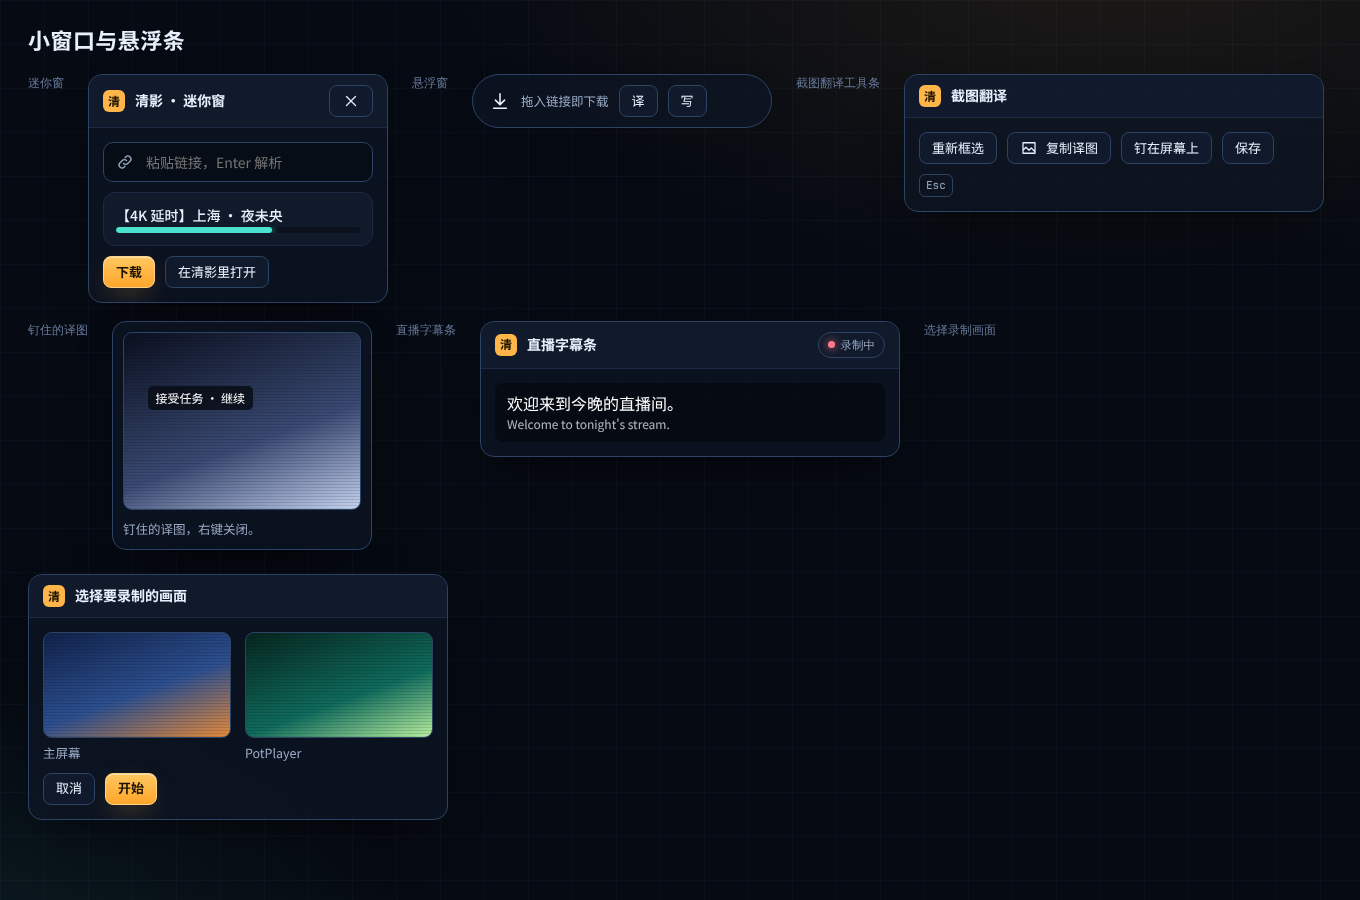
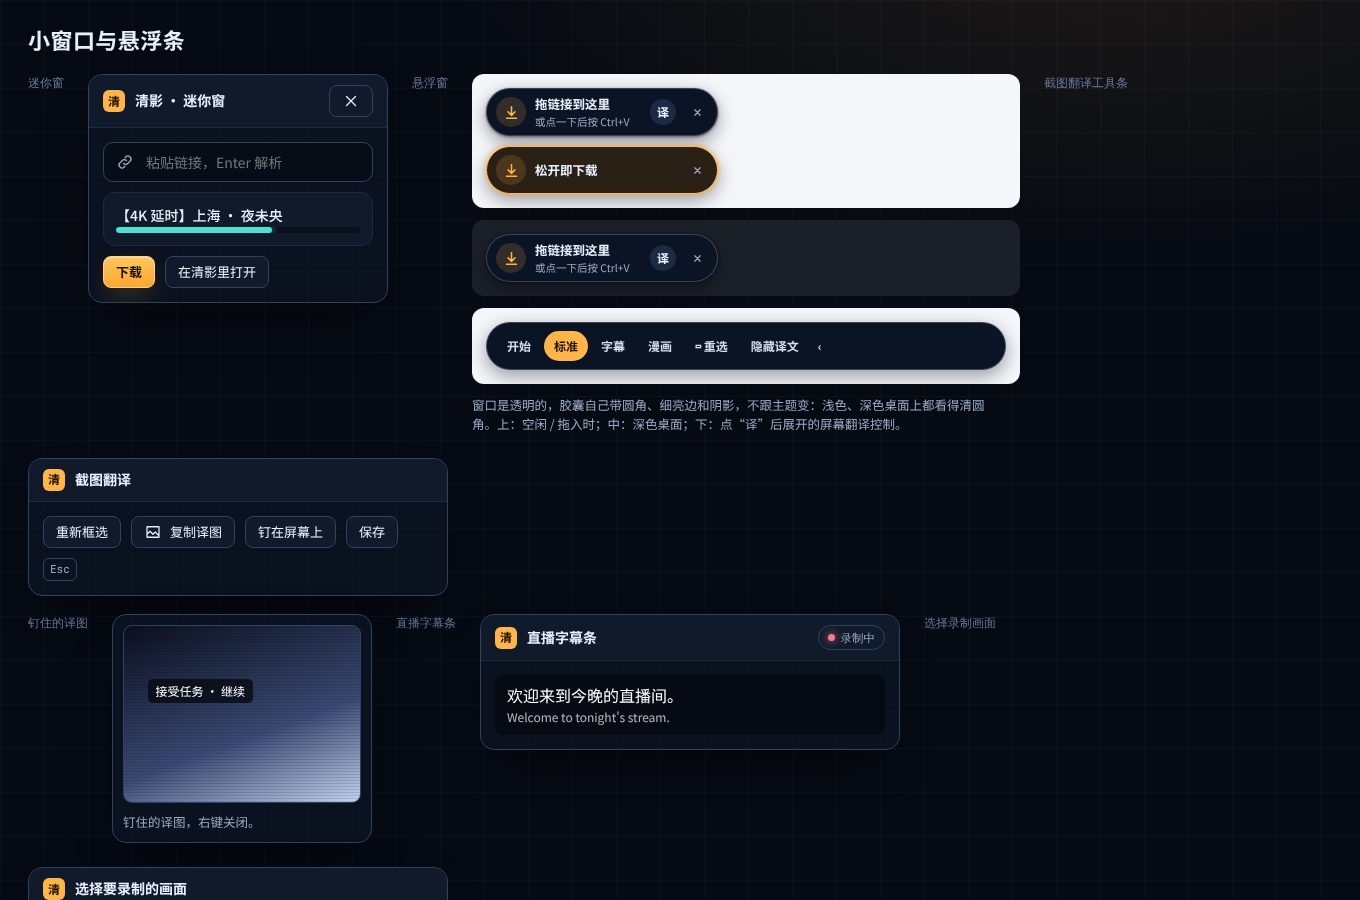
fix(ui): 清影写作窗在浅色桌面上边缘看不清；设计稿补悬浮窗新样子
Claude-Session: https://claude.ai/code/session_01E1QXUbSGXroFMGTAbRgxPD

diff --git a/docs/design/source/Small.dc.html b/docs/design/source/Small.dc.html
@@ -19,7 +19,7 @@ body { margin: 0; }
 <div class="cc" data-theme="{{theme}}">
 <div class="plainmain">
 <header class="topbar"><h1>小窗口与悬浮条</h1><span class="spacer"></span></header>
-<div class="frames"><div class="frame-cap">迷你窗</div><div class="win" style="width:300px"><div class="win-h"><span class="logo-s">清</span><b>清影 · 迷你窗</b><span class="spacer"></span><button class="btn sm ghost" ><svg width="18" height="18" viewBox="0 0 24 24" fill="none" stroke="currentColor" stroke-width="1.7" stroke-linecap="round" stroke-linejoin="round" aria-hidden="true"><path d="M6 6l12 12M18 6 6 18"/></svg></button></div><div class="win-b"><label class="field"><svg width="18" height="18" viewBox="0 0 24 24" fill="none" stroke="currentColor" stroke-width="1.7" stroke-linecap="round" stroke-linejoin="round" aria-hidden="true"><path d="M10 14a4 4 0 0 0 5.7 0l3-3a4 4 0 0 0-5.7-5.7l-1 1M14 10a4 4 0 0 0-5.7 0l-3 3a4 4 0 0 0 5.7 5.7l1-1"/></svg><input type="text" value="" placeholder="粘贴链接，Enter 解析" aria-label="链接"></label><div class="item"><div class="grow"><div class="ttl">【4K 延时】上海 · 夜未央</div><div class="prog "><i style="width:64%"></i></div></div></div><div class="toolbar"><button class="btn primary sm" >下载</button><button class="btn sm" >在清影里打开</button></div></div></div><div class="frame-cap">悬浮窗</div><div class="win" style="width:300px;border-radius:999px"><div class="win-b" style="flex-direction:row;align-items:center;padding:10px 16px;gap:10px"><svg width="22" height="22" viewBox="0 0 24 24" fill="none" stroke="currentColor" stroke-width="1.7" stroke-linecap="round" stroke-linejoin="round" aria-hidden="true"><path d="M12 4v11M7 11l5 5 5-5M5 20h14"/></svg><span class="grow note">拖入链接即下载</span><button class="btn sm" >译</button><button class="btn sm" >写</button></div></div><div class="frame-cap">截图翻译工具条</div><div class="win" style="width:420px"><div class="win-h"><span class="logo-s">清</span><b>截图翻译</b><span class="spacer"></span></div><div class="win-b" style="flex-direction:row;align-items:center;flex-wrap:wrap"><button class="btn sm" >重新框选</button><button class="btn sm" ><svg width="18" height="18" viewBox="0 0 24 24" fill="none" stroke="currentColor" stroke-width="1.7" stroke-linecap="round" stroke-linejoin="round" aria-hidden="true"><path d="M4 5h16v14H4zM4 15l4-4 4 4 3-3 5 5"/></svg>复制译图</button><button class="btn sm" >钉在屏幕上</button><button class="btn sm" >保存</button><span class="spacer"></span><span class="kbd">Esc</span></div></div></div><div class="frames"><div class="frame-cap">钉住的译图</div><div class="win" style="width:260px"><div class="win-b" style="padding:10px"><div class="thumb t5" style="aspect-ratio:4/3"><div style="position:absolute;left:10%;top:30%;padding:3px 8px;border-radius:5px;background:rgba(6,10,18,.8);color:#fff;font-size:12px">接受任务 · 继续</div></div><div class="note">钉住的译图，右键关闭。</div></div></div><div class="frame-cap">直播字幕条</div><div class="win" style="width:420px"><div class="win-h"><span class="logo-s">清</span><b>直播字幕条</b><span class="spacer"></span><span class="chip acc"><i class="dot red"></i>录制中</span></div><div class="win-b"><div style="padding:8px 12px;border-radius:8px;background:rgba(6,10,18,.85);color:#fff;font-size:16px">欢迎来到今晚的直播间。<div style="font-size:12px;opacity:.7">Welcome to tonight's stream.</div></div></div></div><div class="frame-cap">选择录制画面</div><div class="win" style="width:420px"><div class="win-h"><span class="logo-s">清</span><b>选择要录制的画面</b><span class="spacer"></span></div><div class="win-b"><div class="g2"><div><div class="thumb t1"></div><div class="note" style="margin-top:6px">主屏幕</div></div><div><div class="thumb t3"></div><div class="note" style="margin-top:6px">PotPlayer</div></div></div><div class="toolbar"><button class="btn sm" >取消</button><button class="btn primary sm" >开始</button></div></div></div></div>
+<div class="frames"><div class="frame-cap">迷你窗</div><div class="win" style="width:300px"><div class="win-h"><span class="logo-s">清</span><b>清影 · 迷你窗</b><span class="spacer"></span><button class="btn sm ghost" ><svg width="18" height="18" viewBox="0 0 24 24" fill="none" stroke="currentColor" stroke-width="1.7" stroke-linecap="round" stroke-linejoin="round" aria-hidden="true"><path d="M6 6l12 12M18 6 6 18"/></svg></button></div><div class="win-b"><label class="field"><svg width="18" height="18" viewBox="0 0 24 24" fill="none" stroke="currentColor" stroke-width="1.7" stroke-linecap="round" stroke-linejoin="round" aria-hidden="true"><path d="M10 14a4 4 0 0 0 5.7 0l3-3a4 4 0 0 0-5.7-5.7l-1 1M14 10a4 4 0 0 0-5.7 0l-3 3a4 4 0 0 0 5.7 5.7l1-1"/></svg><input type="text" value="" placeholder="粘贴链接，Enter 解析" aria-label="链接"></label><div class="item"><div class="grow"><div class="ttl">【4K 延时】上海 · 夜未央</div><div class="prog "><i style="width:64%"></i></div></div></div><div class="toolbar"><button class="btn primary sm" >下载</button><button class="btn sm" >在清影里打开</button></div></div></div><div class="frame-cap">悬浮窗</div><div style="display:flex;flex-direction:column;gap:12px"><div style="background:#f4f6fa;padding:14px;border-radius:12px;display:flex;flex-direction:column;gap:10px;align-items:flex-start"><div style="width:232px;height:48px;box-sizing:border-box;border-radius:24px;background:#0b1424;border:1px solid rgba(232,240,253,.22);box-shadow:0 6px 18px rgba(2,6,14,.38),0 1px 3px rgba(2,6,14,.5);color:#e8f0fd;display:flex;align-items:center;gap:9px;padding:0 8px 0 9px;font-size:12px"><span style="width:30px;height:30px;border-radius:50%;background:rgba(255,181,71,.16);color:#ffb547;display:flex;align-items:center;justify-content:center;flex:none"><svg viewBox="0 0 24 24" width="17" height="17" fill="none" stroke="currentColor" stroke-width="2.2" stroke-linecap="round" stroke-linejoin="round"><path d="M12 4v11M7 11l5 5 5-5M5 20h14"/></svg></span><span style="flex:1;min-width:0;display:flex;flex-direction:column;gap:1px"><b style="font-size:12.5px;white-space:nowrap">拖链接到这里</b><small style="font-size:10.5px;color:#9aabc6">或点一下后按 Ctrl+V</small></span><span style="width:26px;height:26px;border-radius:50%;background:#1c2b43;display:flex;align-items:center;justify-content:center;font-weight:700;flex:none">译</span><span style="width:24px;height:24px;border-radius:50%;color:#9aabc6;display:flex;align-items:center;justify-content:center;flex:none"><svg viewBox="0 0 24 24" width="13" height="13" fill="none" stroke="currentColor" stroke-width="2.2" stroke-linecap="round"><path d="m7 7 10 10M17 7 7 17"/></svg></span></div><div style="width:232px;height:48px;box-sizing:border-box;border-radius:24px;background:#2a2016;border:1px solid #ffb547;box-shadow:0 0 0 3px rgba(255,181,71,.28),0 6px 18px rgba(2,6,14,.38);color:#e8f0fd;display:flex;align-items:center;gap:9px;padding:0 8px 0 9px"><span style="width:30px;height:30px;border-radius:50%;background:rgba(255,181,71,.16);color:#ffb547;display:flex;align-items:center;justify-content:center;flex:none"><svg viewBox="0 0 24 24" width="17" height="17" fill="none" stroke="currentColor" stroke-width="2.2" stroke-linecap="round" stroke-linejoin="round"><path d="M12 4v11M7 11l5 5 5-5M5 20h14"/></svg></span><b style="font-size:12.5px;flex:1">松开即下载</b><span style="width:24px;height:24px;border-radius:50%;color:#9aabc6;display:flex;align-items:center;justify-content:center;flex:none"><svg viewBox="0 0 24 24" width="13" height="13" fill="none" stroke="currentColor" stroke-width="2.2" stroke-linecap="round"><path d="m7 7 10 10M17 7 7 17"/></svg></span></div></div><div style="background:#1b1f27;padding:14px;border-radius:12px;display:flex;flex-direction:column;gap:10px;align-items:flex-start"><div style="width:232px;height:48px;box-sizing:border-box;border-radius:24px;background:#0b1424;border:1px solid rgba(232,240,253,.22);box-shadow:0 6px 18px rgba(2,6,14,.38),0 1px 3px rgba(2,6,14,.5);color:#e8f0fd;display:flex;align-items:center;gap:9px;padding:0 8px 0 9px;font-size:12px"><span style="width:30px;height:30px;border-radius:50%;background:rgba(255,181,71,.16);color:#ffb547;display:flex;align-items:center;justify-content:center;flex:none"><svg viewBox="0 0 24 24" width="17" height="17" fill="none" stroke="currentColor" stroke-width="2.2" stroke-linecap="round" stroke-linejoin="round"><path d="M12 4v11M7 11l5 5 5-5M5 20h14"/></svg></span><span style="flex:1;min-width:0;display:flex;flex-direction:column;gap:1px"><b style="font-size:12.5px;white-space:nowrap">拖链接到这里</b><small style="font-size:10.5px;color:#9aabc6">或点一下后按 Ctrl+V</small></span><span style="width:26px;height:26px;border-radius:50%;background:#1c2b43;display:flex;align-items:center;justify-content:center;font-weight:700;flex:none">译</span><span style="width:24px;height:24px;border-radius:50%;color:#9aabc6;display:flex;align-items:center;justify-content:center;flex:none"><svg viewBox="0 0 24 24" width="13" height="13" fill="none" stroke="currentColor" stroke-width="2.2" stroke-linecap="round"><path d="m7 7 10 10M17 7 7 17"/></svg></span></div></div><div style="background:#f4f6fa;padding:14px;border-radius:12px;display:flex;flex-direction:column;gap:10px;align-items:flex-start"><div style="display:flex;align-items:center;gap:3px;height:48px;box-sizing:border-box;border-radius:24px;background:#0b1424;border:1px solid rgba(232,240,253,.22);box-shadow:0 6px 18px rgba(2,6,14,.38);color:#d3deec;padding:0 10px;font-size:12px;font-weight:600;width:520px"><span style="padding:0 10px">开始</span><span style="padding:0 10px;height:30px;line-height:30px;border-radius:15px;background:#ffb547;color:#1a1100">标准</span><span style="padding:0 10px">字幕</span><span style="padding:0 10px">漫画</span><span style="padding:0 10px">▭ 重选</span><span style="padding:0 10px">隐藏译文</span><span style="padding:0 6px">‹</span></div></div><div class="note" style="max-width:520px">窗口是透明的，胶囊自己带圆角、细亮边和阴影，不跟主题变：浅色、深色桌面上都看得清圆角。上：空闲 / 拖入时；中：深色桌面；下：点“译”后展开的屏幕翻译控制。</div></div><div class="frame-cap">截图翻译工具条</div><div class="win" style="width:420px"><div class="win-h"><span class="logo-s">清</span><b>截图翻译</b><span class="spacer"></span></div><div class="win-b" style="flex-direction:row;align-items:center;flex-wrap:wrap"><button class="btn sm" >重新框选</button><button class="btn sm" ><svg width="18" height="18" viewBox="0 0 24 24" fill="none" stroke="currentColor" stroke-width="1.7" stroke-linecap="round" stroke-linejoin="round" aria-hidden="true"><path d="M4 5h16v14H4zM4 15l4-4 4 4 3-3 5 5"/></svg>复制译图</button><button class="btn sm" >钉在屏幕上</button><button class="btn sm" >保存</button><span class="spacer"></span><span class="kbd">Esc</span></div></div></div><div class="frames"><div class="frame-cap">钉住的译图</div><div class="win" style="width:260px"><div class="win-b" style="padding:10px"><div class="thumb t5" style="aspect-ratio:4/3"><div style="position:absolute;left:10%;top:30%;padding:3px 8px;border-radius:5px;background:rgba(6,10,18,.8);color:#fff;font-size:12px">接受任务 · 继续</div></div><div class="note">钉住的译图，右键关闭。</div></div></div><div class="frame-cap">直播字幕条</div><div class="win" style="width:420px"><div class="win-h"><span class="logo-s">清</span><b>直播字幕条</b><span class="spacer"></span><span class="chip acc"><i class="dot red"></i>录制中</span></div><div class="win-b"><div style="padding:8px 12px;border-radius:8px;background:rgba(6,10,18,.85);color:#fff;font-size:16px">欢迎来到今晚的直播间。<div style="font-size:12px;opacity:.7">Welcome to tonight's stream.</div></div></div></div><div class="frame-cap">选择录制画面</div><div class="win" style="width:420px"><div class="win-h"><span class="logo-s">清</span><b>选择要录制的画面</b><span class="spacer"></span></div><div class="win-b"><div class="g2"><div><div class="thumb t1"></div><div class="note" style="margin-top:6px">主屏幕</div></div><div><div class="thumb t3"></div><div class="note" style="margin-top:6px">PotPlayer</div></div></div><div class="toolbar"><button class="btn sm" >取消</button><button class="btn primary sm" >开始</button></div></div></div></div>
 </div>
 </div>
 </x-dc>

diff --git a/desktop/src/WriteApp.vue b/desktop/src/WriteApp.vue
@@ -891,7 +891,7 @@ onBeforeUnmount(() => {
 <style>
 /* 窗口本身是透明的：页面底色一律透明，只有里面那张圆角卡片有颜色，窗口四周不会再有任何多余的底层容器 */
 html, body, #app { background: transparent !important; overflow: hidden; }
-html.dark .shell .wa { --acc: #ffb547; --accd: #ffb547; --soft: #ffb54721; --line: #1c2b43; --bg: #080d16; --card: #0e1625; --mut: #9aabc6; --err: #ff7b8a; --ok: #4be3d0; --fg: #e8f0fd; --shadow: 0 10px 30px rgba(0, 0, 0, 0.6), 0 0 0 1px #2c4366; }
+html.dark .shell .wa { --acc: #ffb547; --accd: #ffb547; --soft: #ffb54721; --line: #1c2b43; --bg: #080d16; --card: #0e1625; --mut: #9aabc6; --err: #ff7b8a; --ok: #4be3d0; --fg: #e8f0fd; --edge: #2c4366; --shadow: 0 10px 30px rgba(0, 0, 0, 0.6), 0 0 0 1px #2c4366; }
 html.dark .shell .sg.on { color: var(--acc); background: var(--soft); }
 html.dark .shell .ghost.on { color: var(--acc); }
 html.dark .shell .foot a { color: var(--acc); }
@@ -905,9 +905,9 @@ html.dark .shell .wa { --pick: #ffc760; --go: #ffb547; --gofg: #1a1100; --look: 
 </style>
 
 <style scoped>
-.shell { --m: 10px; position: relative; height: 100vh; padding: var(--m); box-sizing: border-box; }
-.wa { --pick: #8a4a00; --go: #b45f00; --gofg: #fff; --look: #34445f; --dash: #aebfd8; --acc: #b45f00; --accd: #b45f00; --soft: #f59e0b24; --line: #d3deec; --bg: #eaf0f7; --card: #f6f9fd; --mut: #4d5f7b; --err: #c4283d; --ok: #007a70; --fg: #0b1424; --shadow: 0 8px 28px rgba(20, 30, 25, 0.22), 0 1px 3px rgba(20, 30, 25, 0.18);
-  height: 100%; display: flex; flex-direction: column; background: var(--card); color: var(--fg); border-radius: 14px; border: 1px solid var(--line); box-shadow: var(--shadow); overflow: hidden; font: 13px/1.55 -apple-system, 'PingFang SC', 'Microsoft YaHei', 'Noto Sans SC', sans-serif; }
+.shell { --m: 12px; position: relative; height: 100vh; padding: var(--m); box-sizing: border-box; }
+.wa { --pick: #8a4a00; --go: #b45f00; --gofg: #fff; --look: #34445f; --dash: #aebfd8; --acc: #b45f00; --accd: #b45f00; --soft: #f59e0b24; --line: #d3deec; --bg: #eaf0f7; --card: #f6f9fd; --mut: #4d5f7b; --err: #c4283d; --ok: #007a70; --fg: #0b1424; --edge: #7f95b8; --shadow: 0 0 0 1px rgba(11, 20, 36, 0.12), 0 6px 18px rgba(11, 20, 36, 0.34), 0 1px 3px rgba(11, 20, 36, 0.3);
+  height: 100%; display: flex; flex-direction: column; background: var(--card); color: var(--fg); border-radius: 14px; border: 1px solid var(--edge); box-shadow: var(--shadow); overflow: hidden; font: 13px/1.55 -apple-system, 'PingFang SC', 'Microsoft YaHei', 'Noto Sans SC', sans-serif; }
 .bar { display: flex; align-items: center; gap: 6px; padding: 10px 10px 8px 14px; cursor: grab; user-select: none; background: var(--bg); border-bottom: 1px solid var(--line); }
 .bar:active { cursor: grabbing; }
 .logo { width: 24px; height: 24px; border-radius: 8px; background: var(--acc); color: var(--gofg, #1a1100); display: grid; place-items: center; font: 700 12px/1 inherit; flex: none; }

diff --git a/desktop/src/WriteBadge.vue b/desktop/src/WriteBadge.vue
@@ -17,6 +17,6 @@ html, body { margin: 0; background: transparent !important; overflow: hidden; }
 </style>
 
 <style scoped>
-.b { width: 100%; height: 100%; border: 0; border-radius: 50%; background: #b45f00; color: #fff; font: 700 13px/1 -apple-system, 'PingFang SC', 'Microsoft YaHei', 'Noto Sans SC', sans-serif; cursor: pointer; box-shadow: 0 0 0 2px rgba(255, 255, 255, 0.85), 0 2px 6px rgba(180, 86, 26, 0.55); padding: 0; transition: background 0.12s; }
+.b { width: 100%; height: 100%; border: 0; border-radius: 50%; background: #b45f00; color: #fff; font: 700 13px/1 -apple-system, 'PingFang SC', 'Microsoft YaHei', 'Noto Sans SC', sans-serif; cursor: pointer; box-shadow: 0 0 0 2px rgba(255, 255, 255, 0.92), 0 0 0 3px rgba(11, 20, 36, 0.38), 0 3px 8px rgba(11, 20, 36, 0.4); padding: 0; transition: background 0.12s; }
 .b:hover { background: #b45f00; }
 </style>

diff --git a/docs/design/gen/pages_d.py b/docs/design/gen/pages_d.py
@@ -152,7 +152,16 @@ def p_phone():
 # ---------------- 小窗口 ----------------
 def p_small():
     mini = f'''<div class="win" style="width:300px">{winh("清影 · 迷你窗", btn("","sm ghost","x"))}<div class="win-b">{field("","粘贴链接，Enter 解析","link","链接")}<div class="item"><div class="grow"><div class="ttl">【4K 延时】上海 · 夜未央</div>{prog(64)}</div></div><div class="toolbar">{btn("下载","primary sm")}{btn("在清影里打开","sm")}</div></div></div>'''
-    flt = f'''<div class="win" style="width:300px;border-radius:999px"><div class="win-b" style="flex-direction:row;align-items:center;padding:10px 16px;gap:10px">{ic(I["dl"],22)}<span class="grow note">拖入链接即下载</span>{btn("译","sm")}{btn("写","sm")}</div></div>'''
+    pill = lambda inner, w: f'<div style="width:{w}px;height:48px;box-sizing:border-box;border-radius:24px;background:#0b1424;border:1px solid rgba(232,240,253,.22);box-shadow:0 6px 18px rgba(2,6,14,.38),0 1px 3px rgba(2,6,14,.5);color:#e8f0fd;display:flex;align-items:center;gap:9px;padding:0 8px 0 9px;font-size:12px">{inner}</div>'
+    icon = '<span style="width:30px;height:30px;border-radius:50%;background:rgba(255,181,71,.16);color:#ffb547;display:flex;align-items:center;justify-content:center;flex:none"><svg viewBox="0 0 24 24" width="17" height="17" fill="none" stroke="currentColor" stroke-width="2.2" stroke-linecap="round" stroke-linejoin="round"><path d="M12 4v11M7 11l5 5 5-5M5 20h14"/></svg></span>'
+    xb = '<span style="width:24px;height:24px;border-radius:50%;color:#9aabc6;display:flex;align-items:center;justify-content:center;flex:none"><svg viewBox="0 0 24 24" width="13" height="13" fill="none" stroke="currentColor" stroke-width="2.2" stroke-linecap="round"><path d="m7 7 10 10M17 7 7 17"/></svg></span>'
+    tr = '<span style="width:26px;height:26px;border-radius:50%;background:#1c2b43;display:flex;align-items:center;justify-content:center;font-weight:700;flex:none">译</span>'
+    txt = lambda a,b: f'<span style="flex:1;min-width:0;display:flex;flex-direction:column;gap:1px"><b style="font-size:12.5px;white-space:nowrap">{a}</b><small style="font-size:10.5px;color:#9aabc6">{b}</small></span>'
+    def bg(c, inner): return f'<div style="background:{c};padding:14px;border-radius:12px;display:flex;flex-direction:column;gap:10px;align-items:flex-start">{inner}</div>'
+    flt_in = pill(icon+txt("拖链接到这里","或点一下后按 Ctrl+V")+tr+xb, 232)
+    flt_over = '<div style="width:232px;height:48px;box-sizing:border-box;border-radius:24px;background:#2a2016;border:1px solid #ffb547;box-shadow:0 0 0 3px rgba(255,181,71,.28),0 6px 18px rgba(2,6,14,.38);color:#e8f0fd;display:flex;align-items:center;gap:9px;padding:0 8px 0 9px">'+icon+'<b style="font-size:12.5px;flex:1">松开即下载</b>'+xb+'</div>'
+    ctl = '<div style="display:flex;align-items:center;gap:3px;height:48px;box-sizing:border-box;border-radius:24px;background:#0b1424;border:1px solid rgba(232,240,253,.22);box-shadow:0 6px 18px rgba(2,6,14,.38);color:#d3deec;padding:0 10px;font-size:12px;font-weight:600;width:520px"><span style="padding:0 10px">开始</span><span style="padding:0 10px;height:30px;line-height:30px;border-radius:15px;background:#ffb547;color:#1a1100">标准</span><span style="padding:0 10px">字幕</span><span style="padding:0 10px">漫画</span><span style="padding:0 10px">▭ 重选</span><span style="padding:0 10px">隐藏译文</span><span style="padding:0 6px">‹</span></div>'
+    flt = '<div style="display:flex;flex-direction:column;gap:12px">'+bg('#f4f6fa', flt_in+flt_over)+bg('#1b1f27', flt_in)+bg('#f4f6fa', ctl)+'<div class="note" style="max-width:520px">窗口是透明的，胶囊自己带圆角、细亮边和阴影，不跟主题变：浅色、深色桌面上都看得清圆角。上：空闲 / 拖入时；中：深色桌面；下：点“译”后展开的屏幕翻译控制。</div></div>'
     shotb = f'''<div class="win" style="width:420px">{winh("截图翻译")}<div class="win-b" style="flex-direction:row;align-items:center;flex-wrap:wrap">{btn("重新框选","sm")}{btn("复制译图","sm","img")}{btn("钉在屏幕上","sm")}{btn("保存","sm")}<span class="spacer"></span><span class="kbd">Esc</span></div></div>'''
     pin = f'''<div class="win" style="width:260px"><div class="win-b" style="padding:10px"><div class="thumb t5" style="aspect-ratio:4/3"><div style="position:absolute;left:10%;top:30%;padding:3px 8px;border-radius:5px;background:rgba(6,10,18,.8);color:#fff;font-size:12px">接受任务 · 继续</div></div><div class="note">钉住的译图，右键关闭。</div></div></div>'''
     liveov = f'''<div class="win" style="width:420px">{winh("直播字幕条", chip(dot("red")+"录制中","acc"))}<div class="win-b"><div style="padding:8px 12px;border-radius:8px;background:rgba(6,10,18,.85);color:#fff;font-size:16px">欢迎来到今晚的直播间。<div style="font-size:12px;opacity:.7">Welcome to tonight's stream.</div></div></div></div>'''
